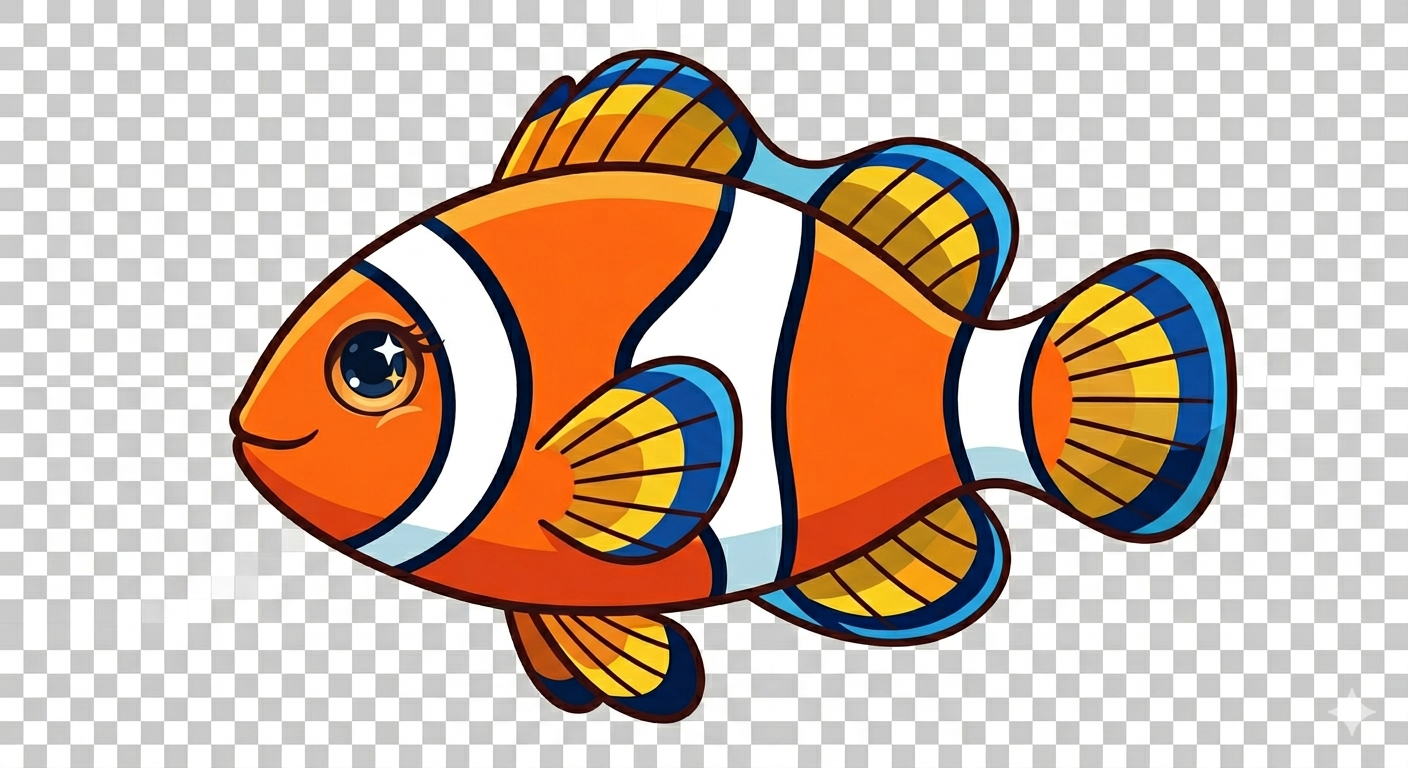
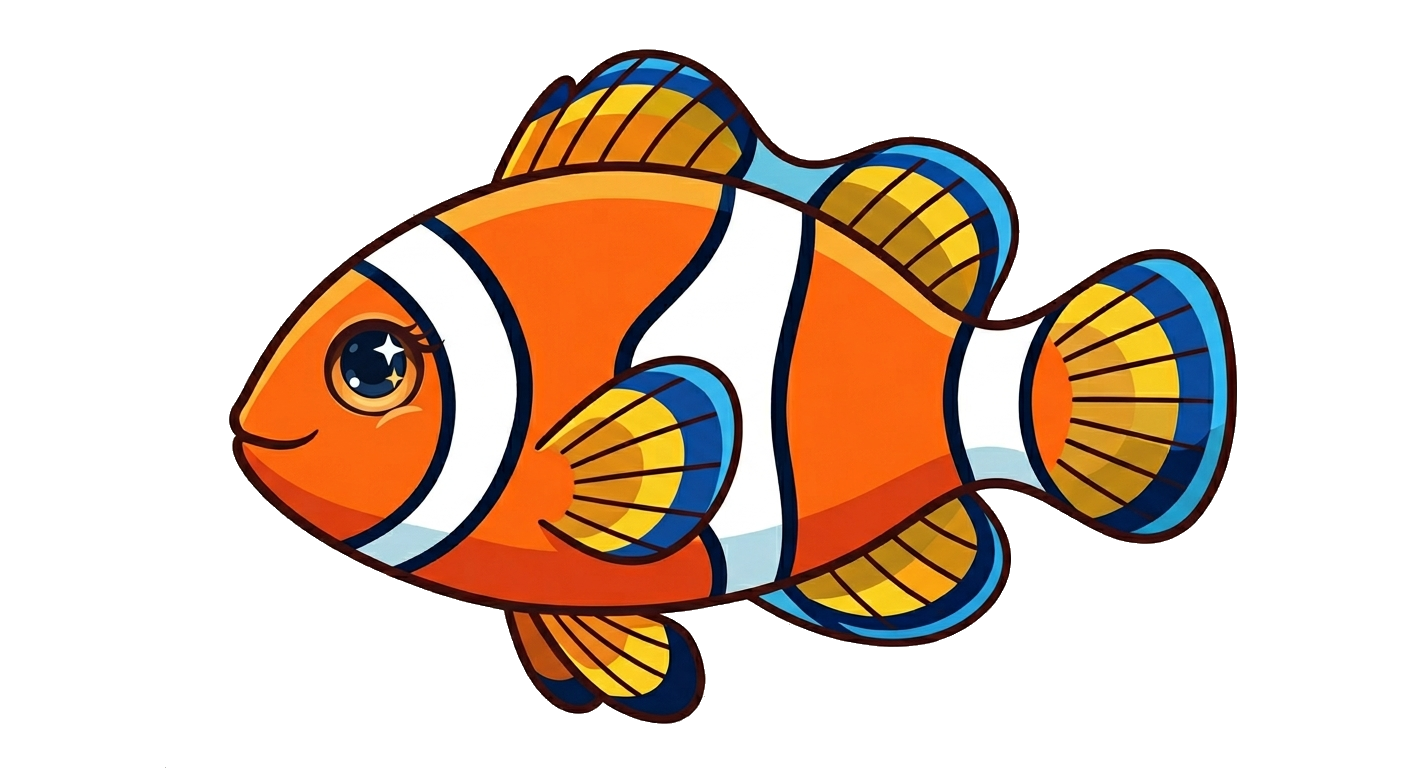
Blend seafloor and refine clownfish

diff --git a/index.html b/index.html
@@ -48,7 +48,7 @@
     }
 
     .ocean-life {
-      z-index: 5;
+      z-index: 2;
       overflow: hidden;
     }
 
@@ -154,20 +154,48 @@
     .seafloor {
       position: relative;
       z-index: 2;
-      min-height: 420px;
-      margin-top: 18px;
+      min-height: clamp(360px, 54vw, 560px);
+      margin-top: 36px;
       overflow: hidden;
       pointer-events: none;
       background:
-        linear-gradient(180deg, rgba(5, 38, 53, 0.1), #031923);
+        linear-gradient(180deg, rgba(4, 39, 55, 0), rgba(3, 25, 35, 0.96));
+      box-shadow: inset 0 48px 58px rgba(3, 31, 47, 0.92);
+    }
+
+    .seafloor::before,
+    .seafloor::after {
+      content: "";
+      position: absolute;
+      inset: 0;
+      z-index: 1;
+      pointer-events: none;
+    }
+
+    .seafloor::before {
+      background:
+        linear-gradient(180deg, #03344c 0, rgba(3, 52, 76, 0.42) 16%, transparent 36%),
+        linear-gradient(104deg, transparent 0 24%, rgba(202, 255, 248, 0.16) 25% 30%, transparent 31%),
+        linear-gradient(80deg, transparent 0 58%, rgba(202, 255, 248, 0.12) 59% 64%, transparent 65%),
+        radial-gradient(ellipse at 50% 8%, rgba(218, 255, 246, 0.28), transparent 38%);
+      mix-blend-mode: screen;
+    }
+
+    .seafloor::after {
+      background:
+        radial-gradient(ellipse at 50% 68%, transparent 0 46%, rgba(1, 18, 28, 0.54) 86%),
+        linear-gradient(180deg, rgba(2, 31, 48, 0.58) 0, rgba(2, 29, 43, 0.18) 32%, rgba(1, 17, 25, 0.72) 100%),
+        linear-gradient(90deg, rgba(1, 20, 31, 0.68), transparent 18% 82%, rgba(1, 20, 31, 0.68));
     }
 
     .seafloor img {
       display: block;
       width: 100%;
-      min-height: 420px;
+      min-height: clamp(360px, 54vw, 560px);
       object-fit: cover;
       object-position: center bottom;
+      filter: saturate(0.78) hue-rotate(8deg) brightness(0.72) contrast(1.08);
+      transform: scale(1.03);
     }
 
     main {